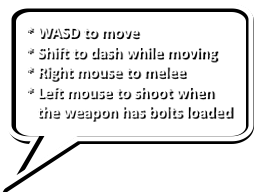
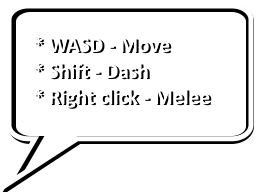
game alpha 1.0

Changed region(s): [[0.0938, 0.125, 0.9375, 0.6562]]

diff --git a/src/game_engine/Game.js b/src/game_engine/Game.js
@@ -9,10 +9,11 @@ import {
     Material
 } from 'engine/core.js';
 import { GameLoader } from './GameLoader.js';
-import { GameInstance_type, GameInstance, GameInstance_tool, Enemy, Player, HarpoonGunWeapon } from './GameInstance.js';
+import { GameInstance_type, GameInstance, GameInstance_tool, Enemy, Player, HarpoonGunWeapon, BoltPickup } from './GameInstance.js';
 import { TopDownController } from './TopDownController.js';
 import { Physics } from './Physics.js';
 import { wave_settings, camera_settings } from './config.js'
+import { quat, vec3, mat4, vec2 } from 'glm';
 
 
 export class Game {
@@ -61,11 +62,13 @@ export class Game {
         }
         this.game_tip_animation_duration = 1;
         this.game_tip_enabled = true;
+        this.bolt_tip_enabled = false;
+        this.bolt_tip_animation_duration = 0;
 
         //game loop
         this.game_reset_flag = false;
         this.reload_player = false;
-        this.game_reset_length = 1;
+        this.game_reset_length = 2;
         this.game_reset_timer = 0;
 
         this.wave_progress = wave_progress;                 //% of wave defeated [0-1]
@@ -101,6 +104,8 @@ export class Game {
         this.game_time = 0; 
         this.game_tip_enabled = false;
 
+
+        this.UI_data.weapon_ui_variation = 0;
         this.wave_progress = 0.0;
         this.displaying_progress = false;
         this.cur_enemy_count = 0;
@@ -112,7 +117,9 @@ export class Game {
 
         //remove enemies
         this.instances.forEach(instance => {
-            if (instance == undefined || !(instance instanceof Enemy)) return;
+            if (instance == undefined || !(instance instanceof Enemy || instance instanceof BoltPickup ||
+                instance.type == GameInstance_tool.type_enum.HARPOON_PROJECTILE
+            )) return;
             this.remove_instance(instance.id);
         });
         
@@ -120,7 +127,7 @@ export class Game {
         this.remove_instance(this.player.weapon.id);
         this.remove_instance(this.player.id);
         this.loader.render_scene.removeChild(this.camera);
-
+        
         this.reload_player = true;
         this.game_reset_timer = t + this.game_reset_length;
         this.game_reset_flag = false;
@@ -150,16 +157,28 @@ export class Game {
             case this.game_state_enum.WAVE_BEGINNING:
                 //disable the game tip
                 this.game_tip_enabled = false;
+                this.bolt_tip_enabled = false;
 
                 //setting up data for wave
                 this.displaying_progress = true;
                 this.wave_progress = 0.0;
                 this.wave_count++;
-                this.total_enemy_count = this.total_enemy_counts_per_wave[this.wave_count][0] + this.total_enemy_counts_per_wave[this.wave_count][1] + this.total_enemy_counts_per_wave[this.wave_count][2];
+
+
+                const wave_id = this.wave_count < 12 ? this.wave_count : 11;
+                const cur_total_enemy_counts = this.total_enemy_counts_per_wave[wave_id];
+
+                if (this.wave_count > 11){
+                    vec3.scale(cur_total_enemy_counts, cur_total_enemy_counts, 1.5 * (this.wave_count - 11));
+                    cur_total_enemy_counts[0] = Math.floor(cur_total_enemy_counts[0])
+                    cur_total_enemy_counts[1] = Math.floor(cur_total_enemy_counts[1])
+                    cur_total_enemy_counts[2] = Math.floor(cur_total_enemy_counts[2])
+                }
+                this.cur_total_enemy_counts = cur_total_enemy_counts;
+                this.total_enemy_count = cur_total_enemy_counts[0] + cur_total_enemy_counts[1] + cur_total_enemy_counts[2];
                 
                 //start next wave
                 this.state = this.game_state_enum.WAVE_IN_PROGRESS;
-                console.log(`Wave ${this.wave_count} started with ${this.total_enemy_counts_per_wave[this.wave_count].toString()} as enemies!`);
                 break;
             case this.game_state_enum.WAVE_IN_PROGRESS:
 
@@ -177,6 +196,11 @@ export class Game {
                 this.amount_of_enemies_to_spawn = 1;
                 this.state = this.game_state_enum.WAVE_RESET;
                 this.tank_spawn_angles = [];
+
+                if (this.wave_count == 1){
+                    this.bolt_tip_enabled = true;
+                    this.bolt_tip_animation_duration = t;
+                }
                 break;
             default:
                 console.log("game stateless error");
@@ -191,7 +215,7 @@ export class Game {
         this.amount_of_enemies_to_spawn += dt * 1000 / this.spawn_delay;
         if (this.amount_of_enemies_to_spawn < 0) this.amount_of_enemies_to_spawn = this.total_enemy_count - this.cur_enemy_count;
 
-        const cur_total_enemy_counts = this.total_enemy_counts_per_wave[this.wave_count];
+        const cur_total_enemy_counts = this.cur_total_enemy_counts;
 
         for (let i = 0; i < this.amount_of_enemies_to_spawn - 1; i++) {
             
@@ -265,9 +289,9 @@ export class Game {
         this.wave_progress = (this.cur_enemy_killed / this.total_enemy_count);
     }
 
-    crate_break_event(){
+    crate_break_event(x, y){
         this.state = this.game_state_enum.WAVE_BEGINNING;
-        if (wave_settings.bolt_spawn_waves.includes(this.wave_count)) this.create_instance(GameInstance_tool.type_enum.BOLT_PICKUP, [-5,-5], 1.5, 0);
+        if (wave_settings.bolt_spawn_waves.includes(this.wave_count)) this.create_instance(GameInstance_tool.type_enum.BOLT_PICKUP, [x, y], 1.5, 0);
     }
 
     update_scene(t, dt){

diff --git a/src/game_engine/UIRenderer.js b/src/game_engine/UIRenderer.js
@@ -21,6 +21,7 @@ export class UIRenderer {
 
         this.game_tip_UI_path = [
             'assets/UI/game_tip_0.png',
+            'assets/UI/game_tip_1.png'
         ];
 
         this.progress_bar_data = new Float32Array([
@@ -43,7 +44,9 @@ export class UIRenderer {
     drawUI(){
         this.progress_bar_UI();
         this.weapon_UI();
-        this.game_tip_UI();
+        this.control_tip_UI();
+        this.bolt_tip_UI();
+
     }
 
     async init(){
@@ -160,7 +163,7 @@ export class UIRenderer {
         return texture;
     }
 
-    game_tip_UI(){
+    control_tip_UI(){
         if (this.game_ref.game_tip_enabled == false) return;
 
         const UI_ind = 0;
@@ -181,6 +184,30 @@ export class UIRenderer {
         const y = 0.5 - texture_height_uv + texture_height_uv * (1 - game_tip_scale) - y_offset;
 
         this.drawTexture(this.game_tip_UI_textures[0], x, y, game_tip_scale, game_tip_scale);
+    }
+
+    bolt_tip_UI(){
+        if (this.game_ref.bolt_tip_enabled == false) return;
+
+        const UI_ind = 0;
+        const total_scale = 2;
+        const x_offset = 0.02;
+        const y_offset = 0.06;
+
+        const game_time = this.game_ref.game_time;
+        const timestamp = this.game_ref.bolt_tip_animation_duration - 0.7;
+
+        const game_tip_scale = (game_time < timestamp + 1 ? polyEaseInOut(game_time - timestamp) : 1) * total_scale;
+
+        const canvas_width = this.main_renderer.canvas.width;
+        const canvas_height = this.main_renderer.canvas.height;
+        const texture_width_uv = this.game_tip_UI_textures[UI_ind].width / canvas_width;
+        const texture_height_uv = this.game_tip_UI_textures[UI_ind].height / canvas_height;
+
+        const x = 0.5 + x_offset;
+        const y = 0.5 - texture_height_uv + texture_height_uv * (1 - game_tip_scale) - y_offset;
+
+        this.drawTexture(this.game_tip_UI_textures[1], x, y, game_tip_scale, game_tip_scale);
     }
 
     weapon_UI(){

diff --git a/src/game_engine/GameInstance.js b/src/game_engine/GameInstance.js
@@ -88,6 +88,9 @@ export const GameInstance_tool = Object.freeze({
             inst1.properties.is_rigid = false;
             this.transfer_render_node(inst2, inst1);
             game.remove_instance(inst1.id);
+        } else if (inst1.type == this.type_enum.HARPOON_PROJECTILE && inst2.type == this.type_enum.BUBBLE_PROJECTILE){
+            game.remove_instance(inst1.id);
+            game.remove_instance(inst2.id);
         } else if (inst1.type == this.type_enum.HARPOON_PROJECTILE){ 
             game.remove_instance(inst1.id);
         } else if (inst1.type == this.type_enum.PLAYER && inst2.type == this.type_enum.BUBBLE_PROJECTILE){
@@ -275,7 +278,9 @@ export class WaveCrate extends GameInstance{
     }
 
     take_damage(damage){
-        this.game_ref.crate_break_event();
+
+        const pos = this.world_position;
+        this.game_ref.crate_break_event(pos[0], pos[1]);
         this.game_ref.remove_instance(this.id);
     }   
 
@@ -935,8 +940,10 @@ export class StandardEnemy extends Enemy{
                 }
                 break;
             case this.state_enum.RANGED_ATTACK:
+                this.avoid_displacement = true;
                 //shoot projectile and start chasing player again
                 if (t >  this.ranged_duration_timer){
+                    this.avoid_displacement = false;
                     this.spawn_projectile();
                     this.running_animation(true);
                     this.state = this.state_enum.CHASE_PLAYER;

diff --git a/src/game_engine/GameLoader.js b/src/game_engine/GameLoader.js
@@ -101,16 +101,13 @@ export class GameLoader {
         const light_transform = global_light.getComponentOfType(Transform);
         const down_rotation = quat.create();
         quat.rotateX(down_rotation, down_rotation, -1.57);
-        light_transform.rotation = down_rotation
-
-
+        light_transform.rotation = down_rotation;
         global_light.addComponent(new Light({resolution : [resolution, resolution]}));
         global_light.addComponent(new Camera({
             near: 2,
             far: light_transform.translation[1]+1,
             fovy: fov,
         }));
-
         return global_light;
     }
 
@@ -121,6 +118,7 @@ export class GameLoader {
         camera.addComponent(new Transform());
         camera.addComponent(new TopDownController(game_ref.player, camera, this.canvas));
         game_ref.camera = camera;
+        game_ref.resize(this.canvas.width, this.canvas.height);
         this.render_scene.addChild(camera);
     }
 

diff --git a/src/game_engine/config.js b/src/game_engine/config.js
@@ -18,18 +18,19 @@ const wave_settings = {
     // delay between enemy spawns in milliseconds
     spawn_delay: 250,
     // how far from the player an enemy should spawn
-    spawn_distances: [35, 18, 25],
-    chance_to_spawn_near_tank: 0.85,
+    spawn_distances: [50, 35, 45],
+    chance_to_spawn_near_tank: 0.15,
     bolt_spawn_waves: [1, 3, 5, 9]
 }
 
 const camera_settings = {
-    aspect : 1.57592444126543,
-    far: 1000,
+    halfy : 20,
     fovy : 1.024778957977204,
-    half : 1,
+
+
     near : 0.10000000149011612,
-    orthographic : 0
+    orthographic : 1,
+    far: 1000,
 }
 
 const player_settings = {
@@ -57,7 +58,7 @@ const enemy_settings = {
         melee_attack_duration: 1,
         melee_attack_cooldown: 3,
         health: 40,
-        damage_reduction: 10 // (1 - damage_reduction) = damage reduction%
+        damage_reduction: 7 // (1 - damage_reduction) = damage reduction%
     }
 }
 

diff --git a/src/game_engine/TopDownController.js b/src/game_engine/TopDownController.js
@@ -14,7 +14,7 @@ export class TopDownController {
     constructor(game_instance, camera, canvas, {
             cam_properties = {
                 cam_elevation : 30,
-                cam_offset : [10, 10],
+                cam_offset : [16, 16],
             },
             dash = {
                 cooldown_total : 1,
